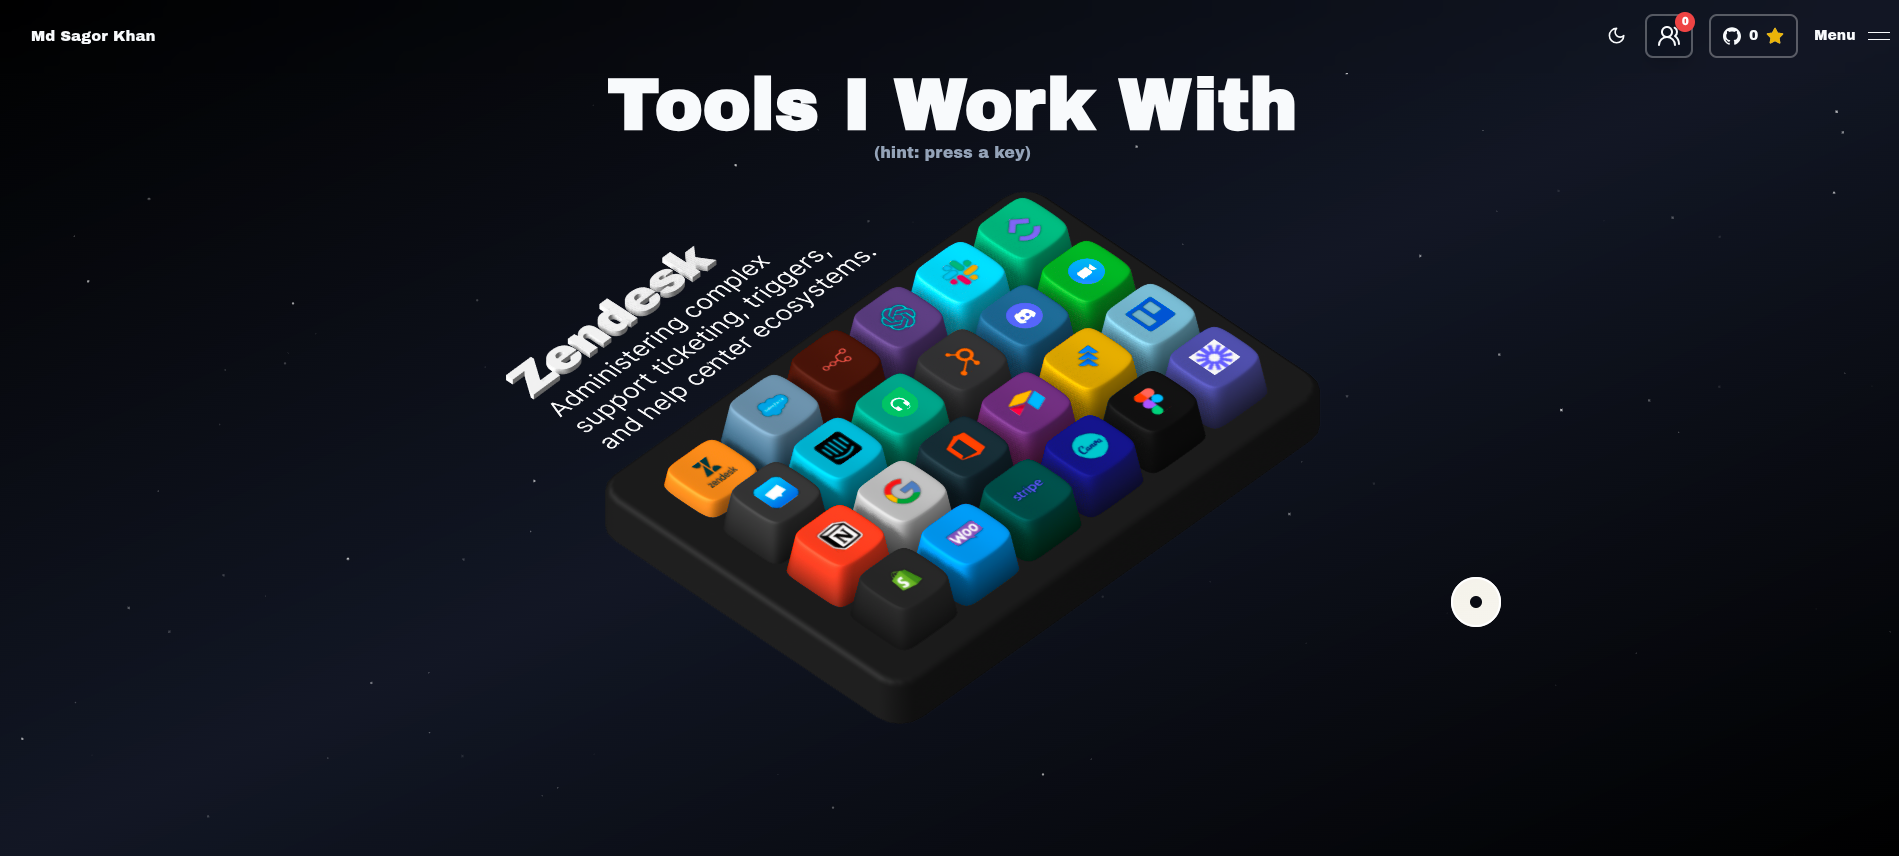
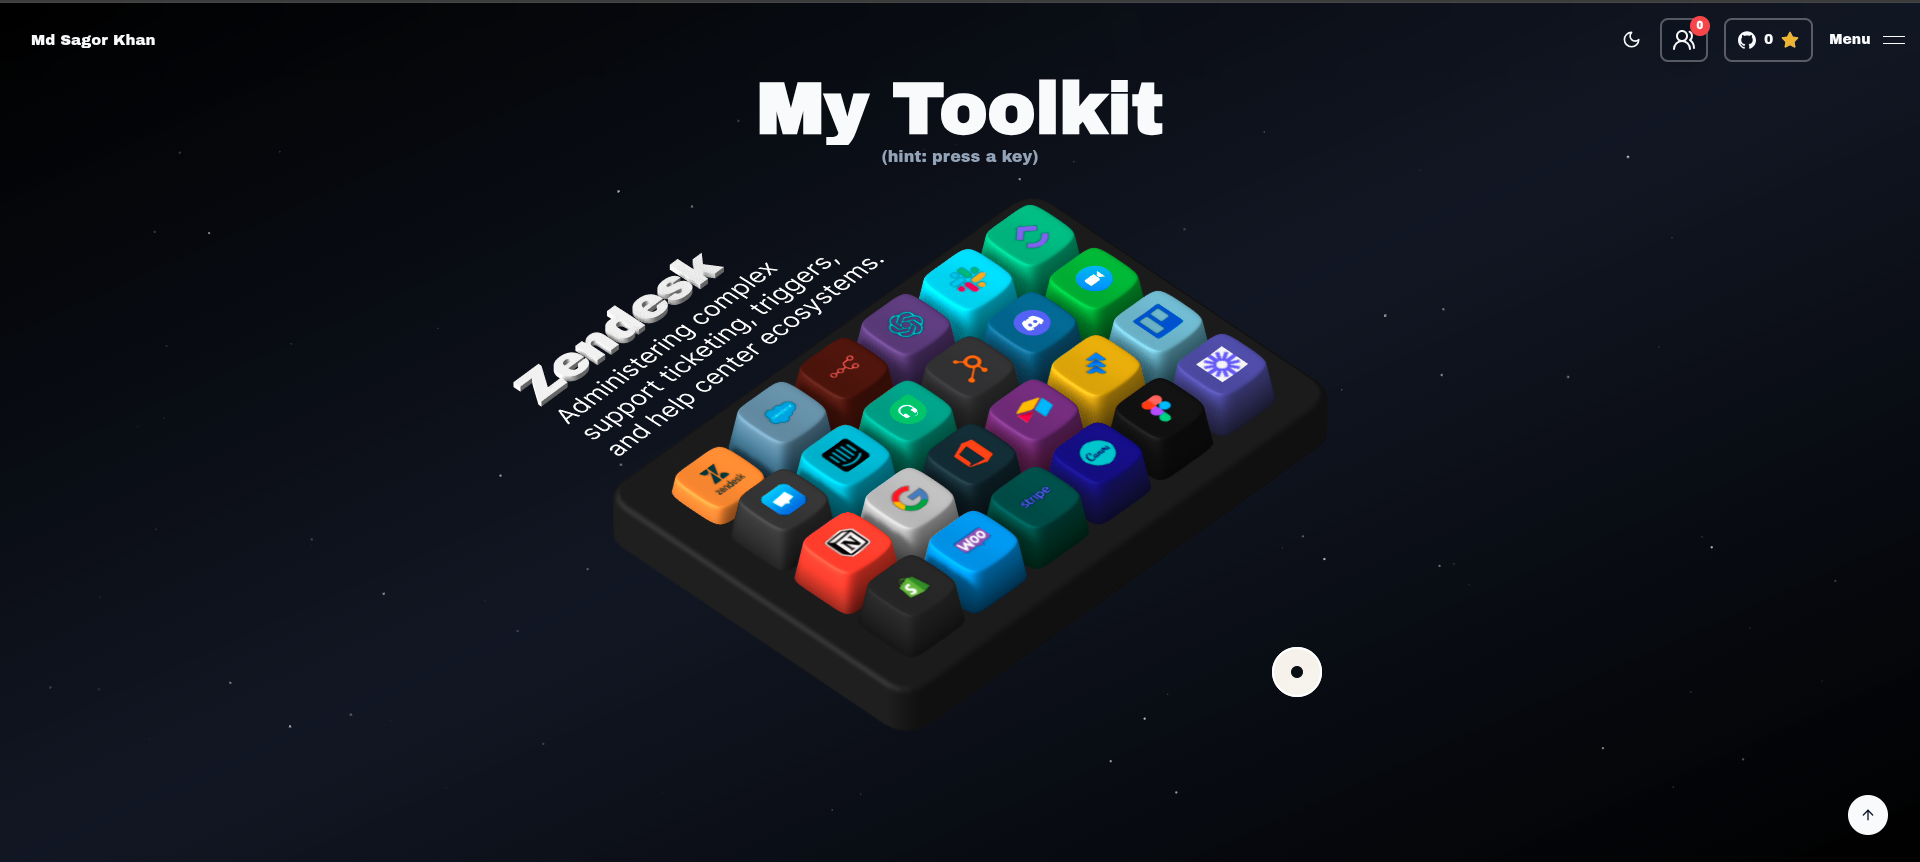
Scroll fix

diff --git a/src/components/sections/hero.tsx b/src/components/sections/hero.tsx
@@ -49,16 +49,15 @@ const HeroSection = () => {
                   <Tooltip delayDuration={300}>
                     <TooltipTrigger asChild>
                       <h1
-                        className={cn(
-                          "-ml-[6px] leading-none font-thin text-transparent text-slate-800 text-left",
-                          "font-thin text-7xl md:text-7xl lg:text-8xl xl:text-9xl",
-                          "cursor-default text-edge-outline font-display "
-                        )}
-                      >
-                        {config.author.split(" ")[0]}
-                        <br className="md:block hiidden" />
-                        {config.author.split(" ")[1]}
-                      </h1>
+  className={cn(
+    "-ml-[6px] leading-none font-thin text-transparent text-slate-800 text-left",
+    "font-thin text-7xl md:text-7xl lg:text-8xl xl:text-9xl",
+    "cursor-default text-edge-outline font-display"
+  )}
+>
+  {config.author.replace(/^Md\s+/i, "").split(" ")[0]}
+</h1>
+
                     </TooltipTrigger>
                     <TooltipContent
                       side="top"
@@ -76,7 +75,7 @@ const HeroSection = () => {
                       "cursor-default font-display sm:text-xl md:text-xl whitespace-nowrap bg-clip-text "
                     )}
                   >
-                    A Customer Experience & Automation Architect
+                    Clear Communication. Real Care. Concise Experiences.
                   </p>
                 </BlurIn>
               </div>
@@ -108,7 +107,7 @@ const HeroSection = () => {
                       </Link>
                     </TooltipTrigger>
                     <TooltipContent side="bottom">
-                      <p>pls 🥹 🙏</p>
+                      <p>Cause I'm worth it! 🥹</p>
                     </TooltipContent>
                   </Tooltip>
                   <div className="flex items-center h-full gap-2">

diff --git a/src/components/sections/experience.tsx b/src/components/sections/experience.tsx
@@ -9,7 +9,7 @@ import { Card, CardContent, CardHeader, CardTitle } from "@/components/ui/card";
 const ExperienceSection = () => {
   return (
     <SectionWrapper
-      className="flex flex-col items-center justify-center min-h-[120vh] py-20 z-10"
+      className="flex flex-col items-center justify-center min-h-[120vh] py-20 z-900"
     >
       <div className="w-full max-w-4xl px-4 md:px-8 mx-auto">
         <SectionHeader

diff --git a/src/components/ui/scroll-to-top.tsx b/src/components/ui/scroll-to-top.tsx
@@ -32,7 +32,7 @@ export default function ScrollToTop() {
   return (
     <Button
       onClick={scrollToTop}
-      className="fixed bottom-8 right-8 z-50 rounded-full p-3 shadow-lg hover:shadow-xl transition-all duration-300"
+      className="fixed bottom-20 right-8 z-50 rounded-full p-3 shadow-lg hover:shadow-xl transition-all duration-300"
       size="icon"
     >
       <ArrowUp className="h-6 w-6" />

diff --git a/src/components/sections/skills.tsx b/src/components/sections/skills.tsx
@@ -4,7 +4,7 @@ import { SectionHeader } from "./section-header";
 const SkillsSection = () => {
   return (
     <SectionWrapper id="skills" className="w-full h-screen md:h-[150dvh] pointer-events-none">
-    <SectionHeader id='skills' title="Tools I Work With" desc="(hint: press a key)" />
+    <SectionHeader id='skills' title="My Toolkit" desc="(hint: press a key)" />
     </SectionWrapper> 
   );
 };

diff --git a/src/components/radial-menu/radial-menu-presentational.tsx b/src/components/radial-menu/radial-menu-presentational.tsx
@@ -21,7 +21,7 @@ export const RadialMenuPresentational = ({
     <AnimatePresence>
       {isOpen && (
         <div
-          className="fixed z-[100]"
+          className="fixed z-[9999]"
           style={{
             left: position.x,
             top: position.y,
